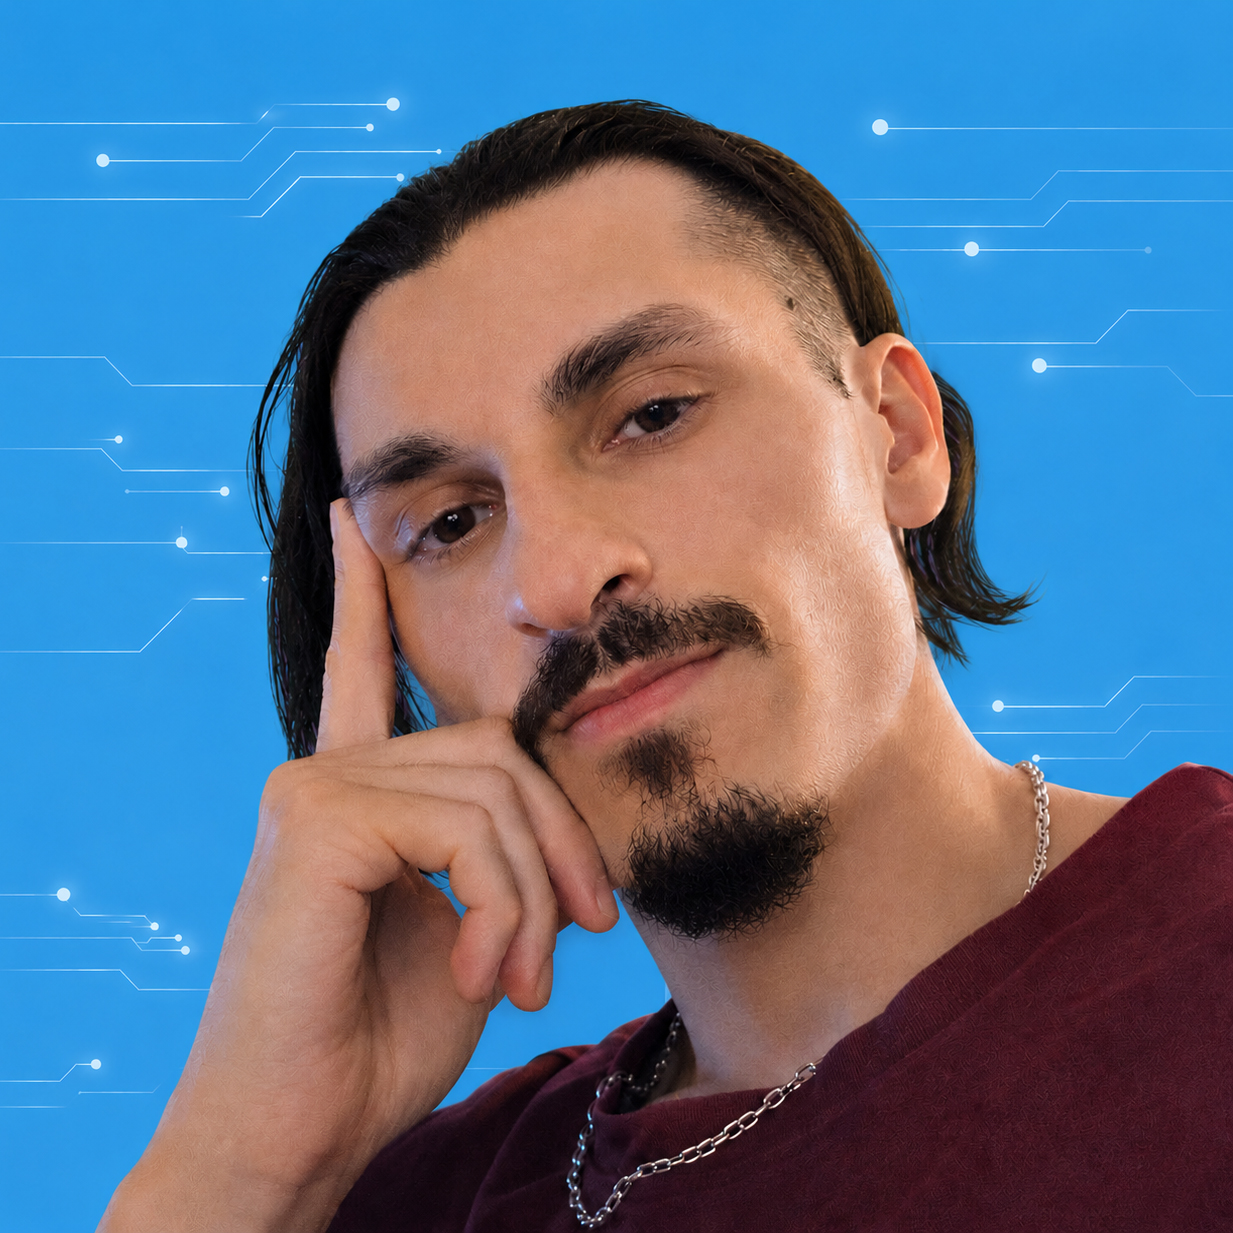
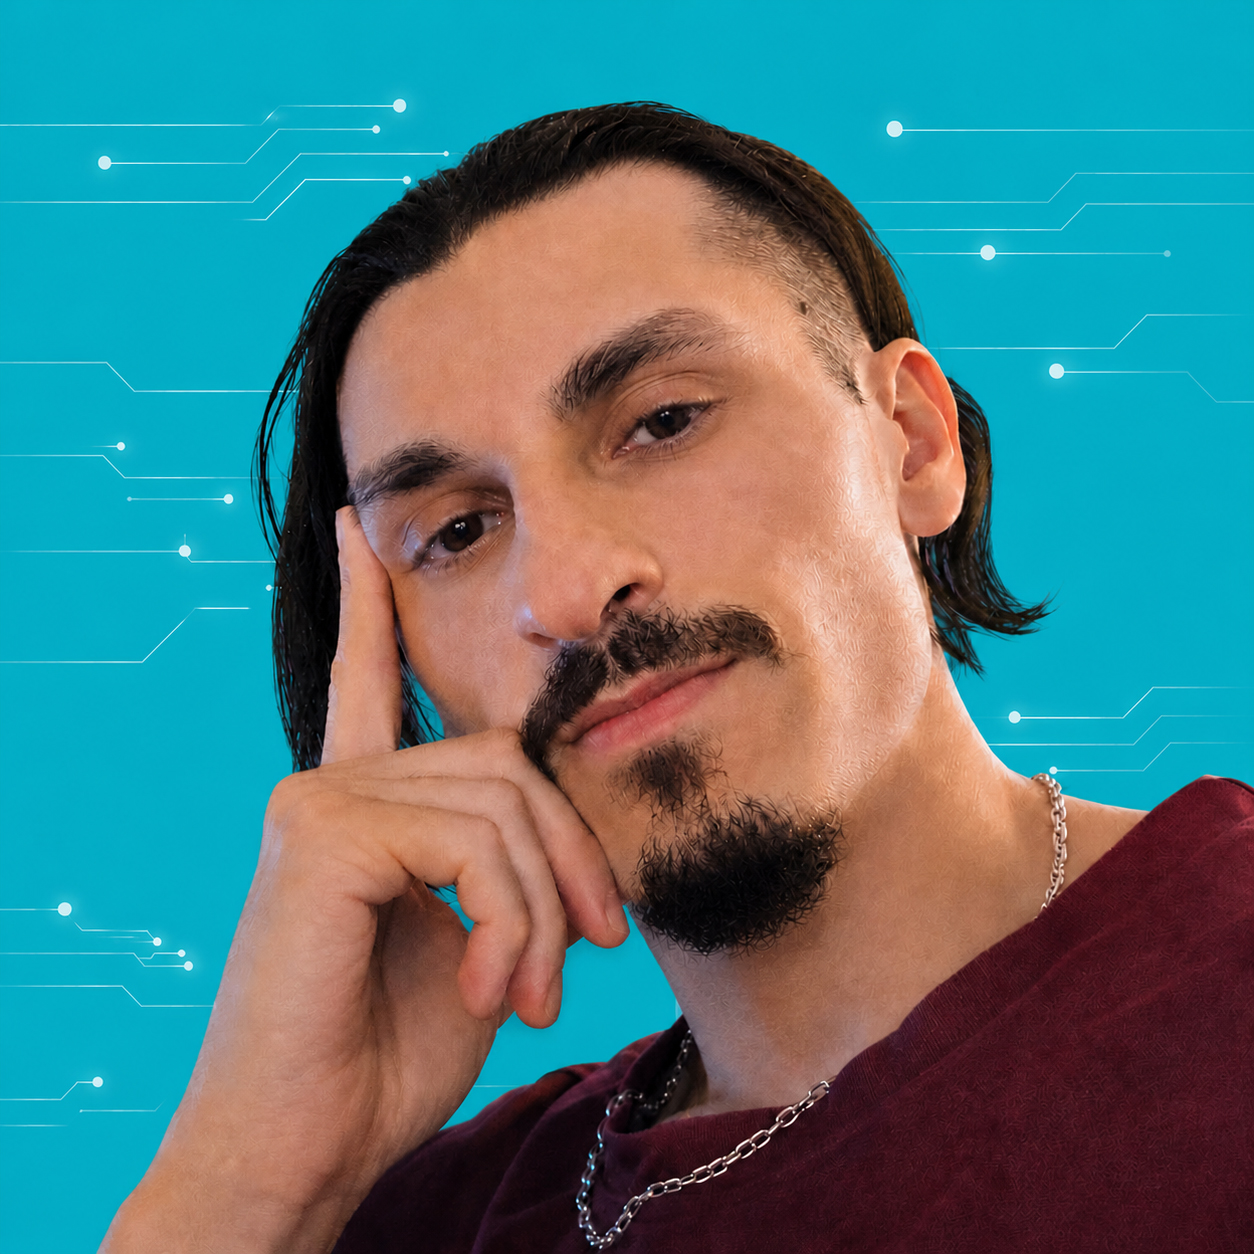
feat: update portfolio theme and private projects

diff --git a/index.html b/index.html
@@ -42,7 +42,7 @@
 </div>
 </div>
 <div class="hero-card">
-<img alt="Profile picture of Yunus Uludag" src="assets/profile.jpg"/>
+<img alt="Profile picture of Yunus Uludag" src="assets/profile-pricepulse.png"/>
 <h2>Yunus Uludag</h2>
 <p>Java Developer Student</p>
 </div>
@@ -556,23 +556,56 @@
 <h3 class="project-column-title" id="private-projects-title">Private Projects</h3>
 <article class="project-card private-project-card">
 <div>
-<h3>Coming soon</h3>
+<h3>Football Club Platform</h3>
 <div class="project-meta">
 <span class="project-type project">Project</span>
 <span class="project-work individual">Individual</span>
 <span class="project-private">Private</span>
+<span class="project-status">Coming soon</span>
 </div>
 <p>
-                            My first private project will be presented here soon.
+                            A football club platform is currently being planned and developed. More information about its features, architecture and technology stack will be added as the project progresses.
                         </p>
 </div>
 <div class="tags">
 <span>Java</span>
 <span>Spring Boot</span>
 <span>PostgreSQL</span>
-<span>Docker</span>
+</div>
+</article>
+<article class="project-card private-project-card">
+<div>
+<h3>Smart Price Tracker</h3>
+<div class="project-meta">
+<span class="project-type project">Project</span>
+<span class="project-work individual">Individual</span>
+<span class="project-private">Private</span>
+<span class="project-status">Beta</span>
+</div>
+<p>
+                            Full-stack price-tracking application where users add a product URL, set a target price, follow price history and receive configurable email notifications when prices change or cross the target.
+                        </p>
+<p>
+                            Built as an independently developed production-style project with secure account management, Google OAuth 2.0, hourly price checks, RabbitMQ-based notification processing, a responsive multilingual interface, automated tests, CI/CD and Docker deployment.
+</p>
+<div class="project-actions">
+<span aria-disabled="true" class="btn primary disabled">Available at launch</span>
+<p class="project-launch-note">The application link will be activated when the project launches.</p>
+</div>
+</div>
+<div class="tags">
+<span>Java</span>
+<span>Spring Boot</span>
+<span>Spring Security</span>
+<span>OAuth 2.0</span>
+<span>PostgreSQL</span>
+<span>Thymeleaf</span>
 <span>RabbitMQ</span>
+<span>Docker</span>
+<span>GitHub Actions</span>
 <span>Render</span>
+<span>Resend</span>
+<span>JUnit 5</span>
 </div>
 </article>
 </section>

diff --git a/script.js b/script.js
@@ -74,9 +74,18 @@ const translations = {
         "School Projects": "Skolprojekt",
         "Private Projects": "Privata projekt",
         "Private": "Privat",
-
-        "My first private project will be presented here soon.":
-            "Mitt första privata projekt presenteras här inom kort.",
+        "Coming soon": "Kommer snart",
+        "Football Club Platform": "Football Club Platform",
+        "A football club platform is currently being planned and developed. More information about its features, architecture and technology stack will be added as the project progresses.":
+            "En fotbollsklubbsplattform planeras och utvecklas för närvarande. Mer information om funktioner, arkitektur och teknikstack läggs till i takt med att projektet utvecklas.",
+        "Smart Price Tracker": "Smart Price Tracker",
+        "Full-stack price-tracking application where users add a product URL, set a target price, follow price history and receive configurable email notifications when prices change or cross the target.":
+            "Fullstackapplikation för prisbevakning där användare lägger till en produktlänk, anger ett målpris, följer prishistorik och får konfigurerbara e-postnotiser när priser förändras eller passerar målpriset.",
+        "Built as an independently developed production-style project with secure account management, Google OAuth 2.0, hourly price checks, RabbitMQ-based notification processing, a responsive multilingual interface, automated tests, CI/CD and Docker deployment.":
+            "Utvecklad självständigt som ett produktionsliknande projekt med säker kontohantering, Google OAuth 2.0, priskontroller varje timme, RabbitMQ-baserad notifikationshantering, responsivt flerspråkigt gränssnitt, automatiserade tester, CI/CD och Docker-driftsättning.",
+        "Available at launch": "Tillgänglig vid lansering",
+        "The application link will be activated when the project launches.":
+            "Länken till applikationen aktiveras i samband med lanseringen.",
 
         "Microservices Webshop": "Webshop med mikrotjänster",
         "Group Project": "Grupparbete",

diff --git a/style.css b/style.css
@@ -5,9 +5,10 @@
     --card: #1e293b;
     --card-light: #243449;
     --text: #f8fafc;
-    --muted: #cbd5e1;
-    --accent: #06b6d4;
-    --accent-light: #67e8f9;
+    --muted: #94a3b8;
+    --accent: #00aac7;
+    --accent-dark: #008ba3;
+    --accent-light: #33bdd2;
     --border: rgba(255, 255, 255, 0.12);
 }
 
@@ -23,7 +24,7 @@ html {
 
 body {
     font-family: Inter, Arial, sans-serif;
-    background: radial-gradient(circle at top left, rgba(6, 182, 212, 0.18), transparent 35%),
+    background: radial-gradient(circle at top left, rgba(0, 170, 199, 0.18), transparent 35%),
     var(--bg);
     color: var(--text);
     line-height: 1.7;
@@ -146,7 +147,7 @@ h3 {
 
 .btn.primary {
     background: var(--accent);
-    color: #082f49;
+    color: #ffffff;
     border-color: transparent;
 }
 
@@ -232,6 +233,21 @@ h3 {
     margin-top: 1rem;
 }
 
+.project-actions {
+    margin-top: 1.25rem;
+}
+
+.btn.disabled {
+    cursor: not-allowed;
+    opacity: 0.58;
+    pointer-events: none;
+}
+
+.project-launch-note {
+    margin-top: 0.65rem;
+    font-size: 0.9rem;
+}
+
 .tags {
     display: flex;
     flex-wrap: wrap;
@@ -240,9 +256,9 @@ h3 {
 }
 
 .tags span {
-    background: rgba(6, 182, 212, 0.12);
+    background: rgba(0, 170, 199, 0.12);
     color: var(--accent-light);
-    border: 1px solid rgba(103, 232, 249, 0.2);
+    border: 1px solid rgba(51, 189, 210, 0.25);
     padding: 0.45rem 0.7rem;
     border-radius: 999px;
     font-size: 0.9rem;
@@ -324,6 +340,12 @@ footer {
     border: 1px solid rgba(148, 163, 184, 0.35);
 }
 
+.project-status {
+    background: rgba(0, 170, 199, 0.15);
+    color: var(--accent-light);
+    border: 1px solid rgba(51, 189, 210, 0.35);
+}
+
 .project-meta {
     display: flex;
     gap: 0.75rem;
@@ -386,9 +408,9 @@ footer {
 
 .language-btn.active {
     background: var(--accent);
-    color: #082f49;
+    color: #ffffff;
     border-color: var(--accent);
-    box-shadow: 0 0 14px rgba(6, 182, 212, 0.45);
+    box-shadow: 0 0 14px rgba(0, 170, 199, 0.45);
 }
 
 @media (max-width: 850px) {
